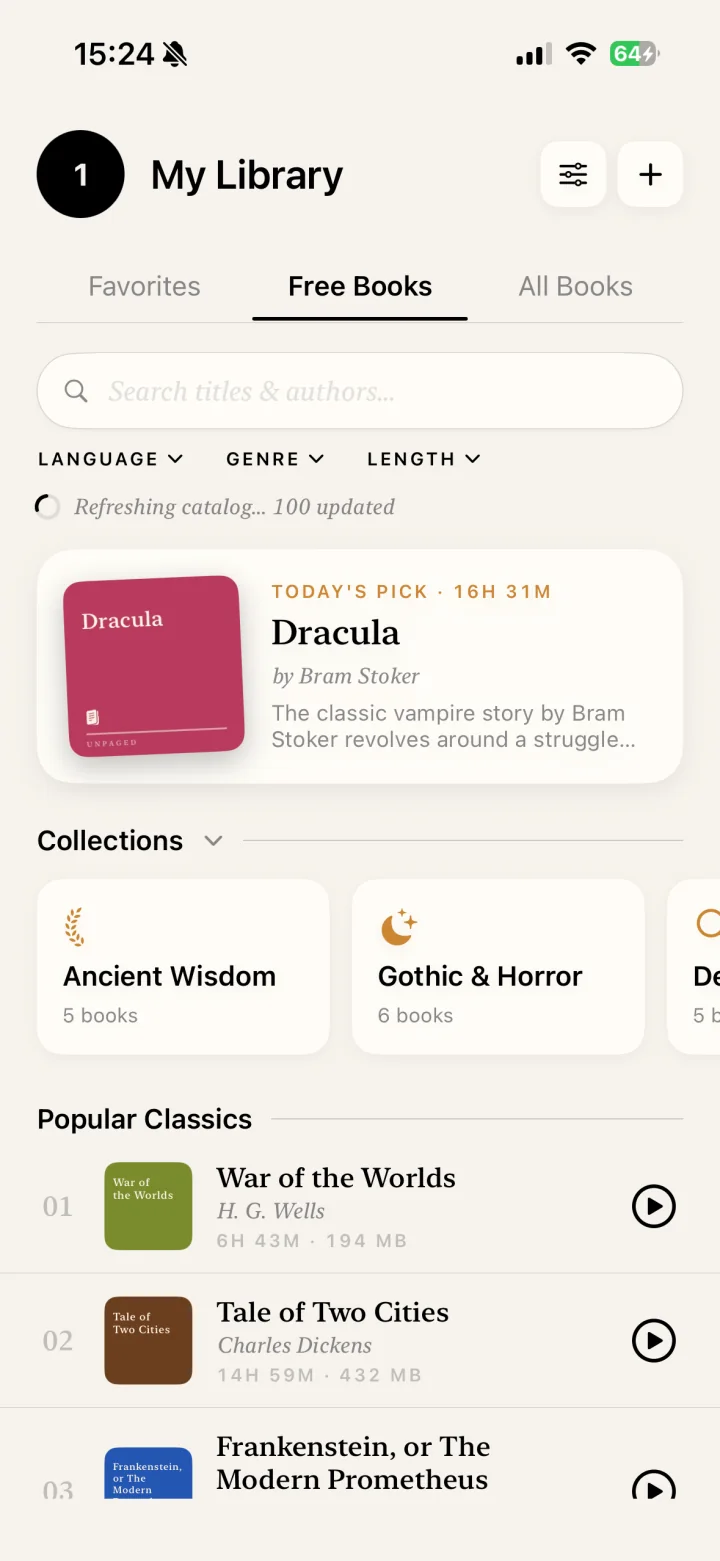
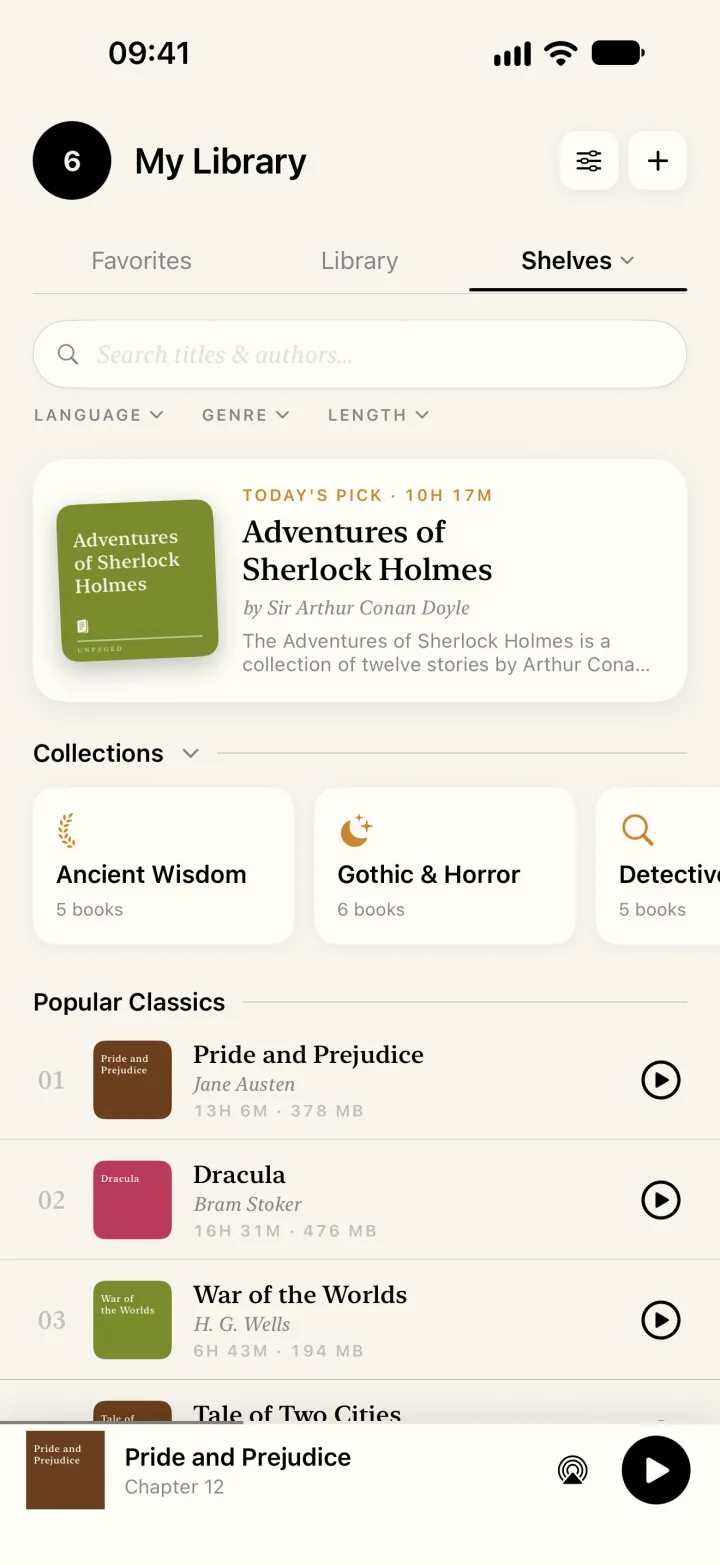
feat(site): use 1.4.0 captures for hero, Shelves and Moments

diff --git a/site/src/pages/index.html b/site/src/pages/index.html
@@ -24,7 +24,7 @@
       </ul>
     </div>
     <figure class="hero-figure">
-      <div class="phone"><img src="{{root}}assets/screens/home.webp" width="720" height="1561" alt="The Unpaged library: a listening activity card for the last seven days above two books, A Tale of Two Cities and The War of the Worlds." fetchpriority="high"></div>
+      <div class="phone"><img src="{{root}}assets/screens/home.webp" width="720" height="1565" alt="The Unpaged library: Pride and Prejudice, Notes from the Underground, Meditations and Walden, each with its length, size and listening progress." fetchpriority="high"></div>
     </figure>
   </div>
 </section>
@@ -45,7 +45,7 @@
       </ul>
     </div>
     <div class="pair">
-      <figure><div class="phone"><img src="{{root}}assets/screens/shelves.webp" width="720" height="1561" loading="lazy" decoding="async" alt="Browsing free classics: today's pick is Dracula by Bram Stoker, followed by collections and a numbered list of popular classics."></div></figure>
+      <figure><div class="phone"><img src="{{root}}assets/screens/shelves.webp" width="720" height="1565" loading="lazy" decoding="async" alt="Browsing free classics in Shelves: today's pick is The Adventures of Sherlock Holmes, followed by collections and a numbered list of popular classics."></div></figure>
       <figure><div class="phone"><img src="{{root}}assets/screens/recordings.webp" width="720" height="1561" loading="lazy" decoding="async" alt="The Dracula detail page with a 20-second sample button, download and add-to-library buttons, and other recordings of the same book."></div></figure>
     </div>
   </div>
@@ -93,7 +93,7 @@
       <p class="fine">Plain bookmarks are free on every iPhone. Naming and recaps need Apple Intelligence (iPhone 15 Pro or later, iOS 26) and Unpaged Plus.</p>
     </div>
     <div class="pair">
-      <figure><div class="phone"><img src="{{root}}assets/screens/moment.webp" width="720" height="1561" loading="lazy" decoding="async" alt="A saved moment in Frankenstein named Friendship and Loss, with an AI-written note and the quote “I have lost everything and cannot begin life.”"></div></figure>
+      <figure><div class="phone"><img src="{{root}}assets/screens/moment.webp" width="720" height="1565" loading="lazy" decoding="async" alt="Four named moments in Pride and Prejudice, such as “A Truth Universally Acknowledged”, each with its timestamp and a short note."></div></figure>
       <figure><div class="phone"><img src="{{root}}assets/screens/recap.webp" width="720" height="1561" loading="lazy" decoding="async" alt="The Frankenstein book page with a Where Was I? recap of the story so far and a list of saved moments."></div></figure>
     </div>
   </div>
